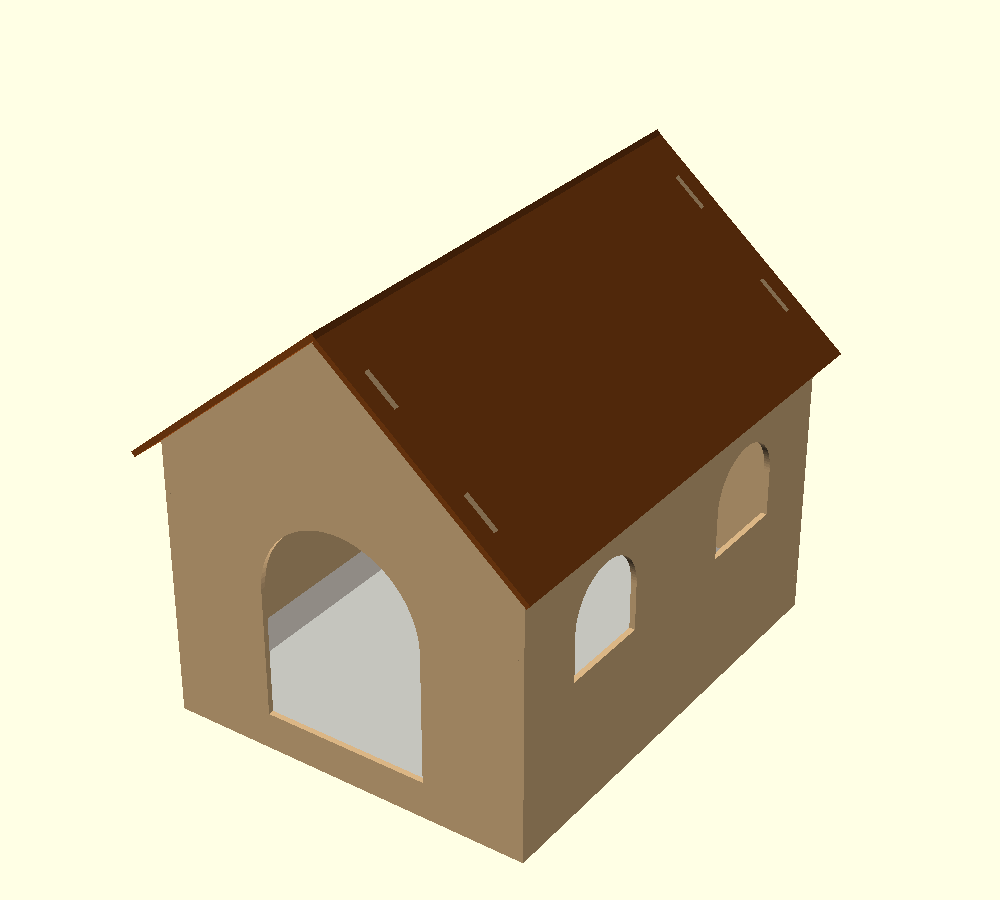
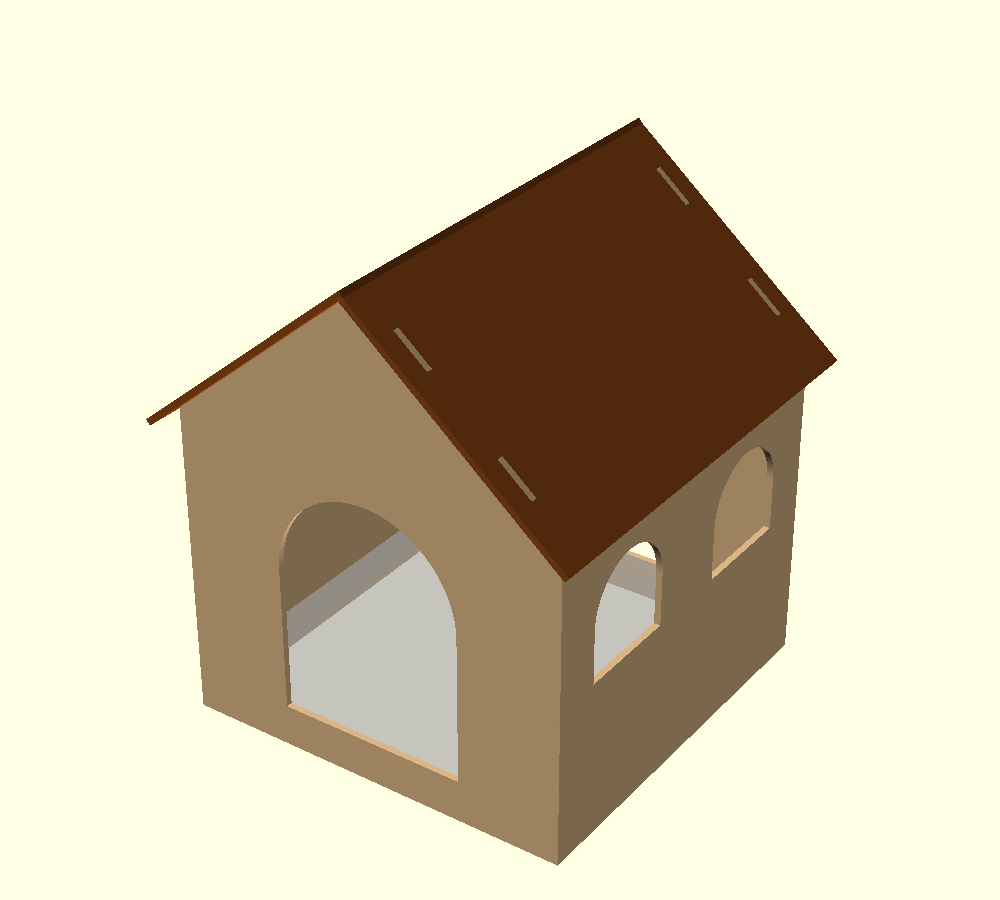
Size house to fit a 14.25in square scratcher

Changed region(s): [[0.124, 0.1244, 0.837, 0.9644], [0.651, 0.5289, 0.682, 0.56]]

diff --git a/README.md b/README.md
@@ -9,6 +9,7 @@ A gable-roof cat house with an open bottom that sits over a cardboard scratcher.
 - 6 parts: front and back walls with arched doors, two side walls with windows, and two roof panels
 - Finger-jointed corners, and roof tabs that go through slots in the roof panels. Everything is glued together.
 - The roof panels overlap at the ridge, with lengths worked out from the pitch and material thickness
+- Sized to fit a 14.25" × 14.25" scratcher by default. The walls are calculated from `scratcher_width`/`scratcher_depth` plus `scratcher_clearance`. Set `fit_to_scratcher = false` to use `house_width`/`house_depth` instead.
 - The doors start at `scratcher_height`, so the cardboard stays in and cats step up onto it
 - **Two modes:** `flat` (cut layout) and `assembled` (3D preview)
 
